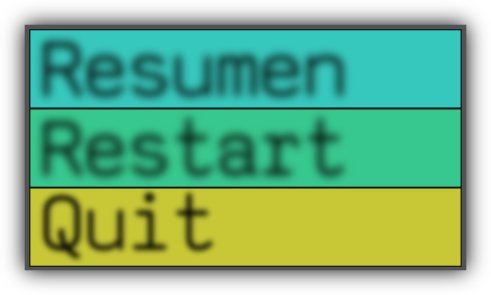
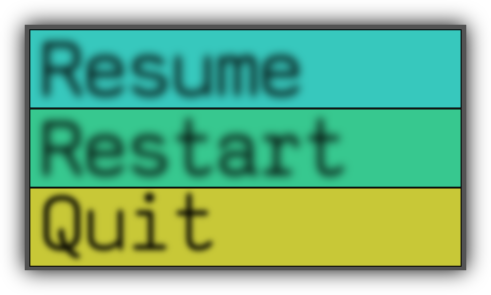
Corrige la traduccion de "Resumen" a "Resume"

Changed region(s): [[0.611, 0.1525, 0.7332, 0.3356]]

diff --git a/src/States/Paused.cpp b/src/States/Paused.cpp
@@ -73,8 +73,8 @@ Paused::Paused(StateManager& stateManager, State* parent)
                     );
                 },
                 sf::Vector2f(mx, my),
-                sf::IntRect(303, 427, 299, 54),
-                sf::IntRect(2, 427, 299, 54)
+                sf::IntRect(259, 427, 255, 54),
+                sf::IntRect(2, 427, 255, 54)
             },
             GraphicMenu::MenuOptionData
             {
